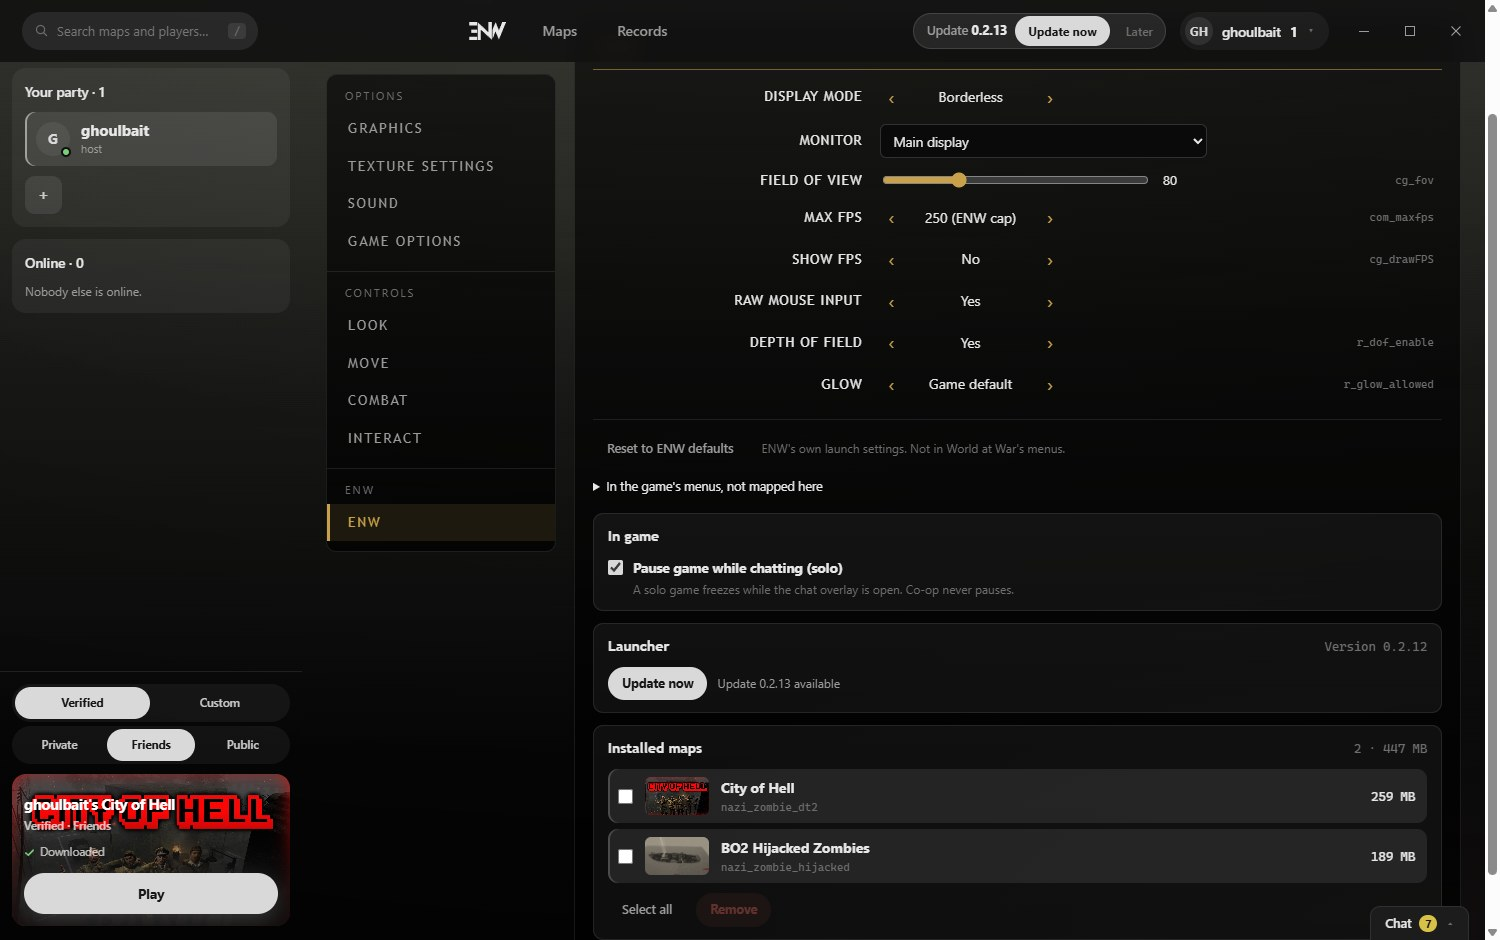
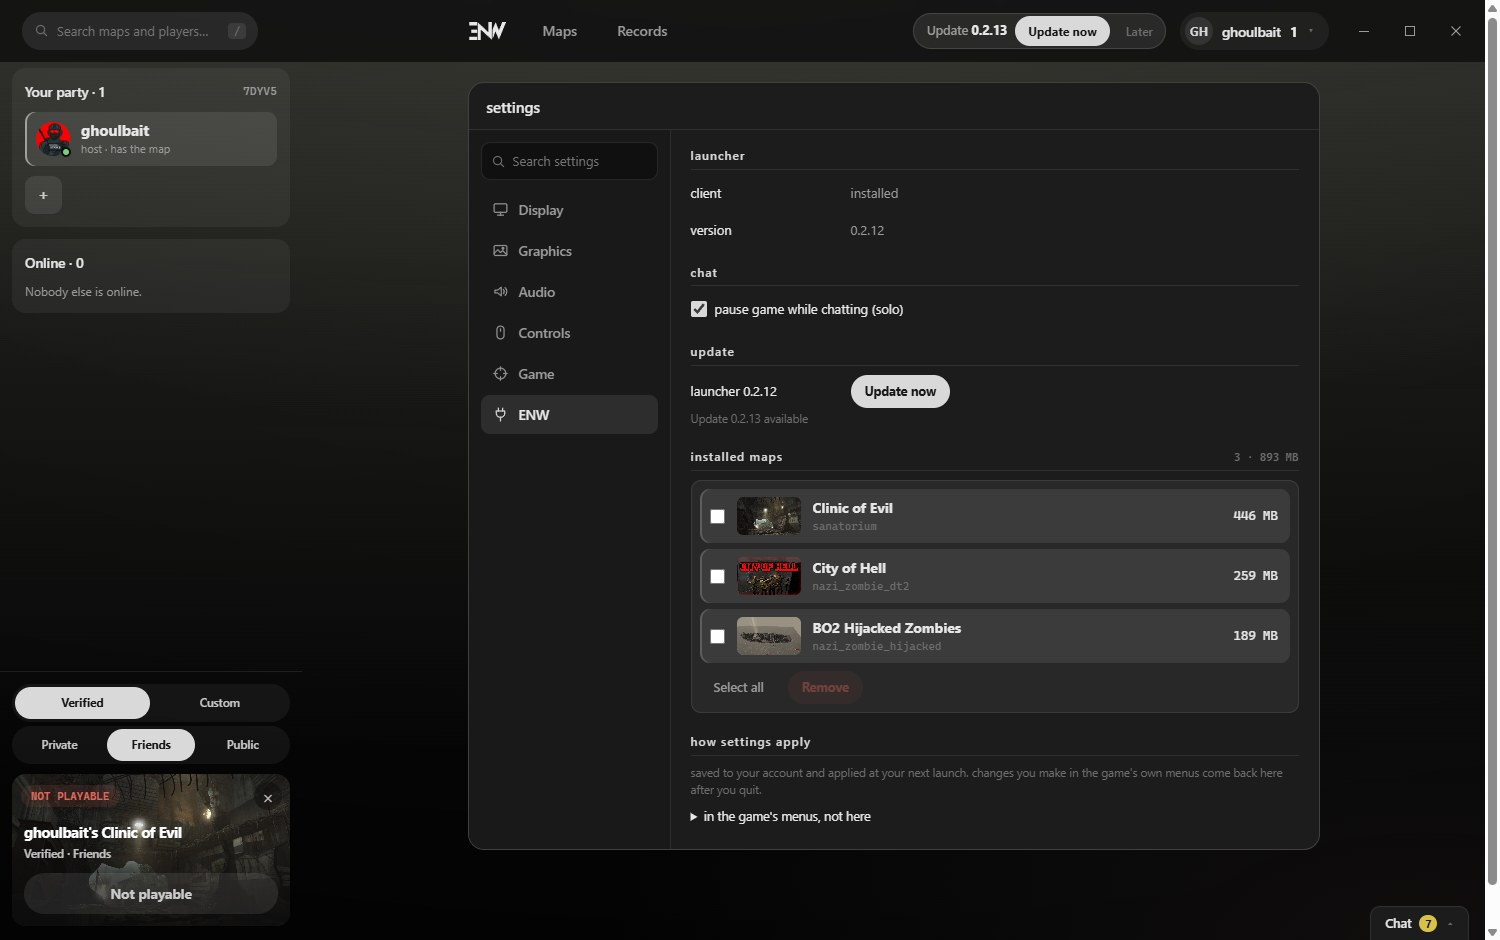
0.2.12: Download works on an older launcher (installMap without mapState); proofs re-taken on the Gaff settings layout; launcher.md, web.md, STATUS

diff --git a/web/client/src/components/launcherBridge.js b/web/client/src/components/launcherBridge.js
@@ -77,11 +77,17 @@ export function useMapInstall(key) {
   const [st, setSt] = useState(null)
   const [busy, setBusy] = useState(false)
   const enw = bridge()
-  const supported = !!(enw && enw.mapState && enw.installMap)
+  // `installMap` is enough to download (every launcher since 0.1 has it). `mapState` is
+  // 0.2.12's: without it (a 0.2.11 launcher on the new site) the button starts as Download
+  // and learns "Downloaded" from installMap's own answer ({already:true} or the record).
+  const supported = !!(enw && enw.installMap)
+  const hasState = !!(enw && enw.mapState)
   useEffect(() => {
     if (!supported || !key) { setSt(null); return undefined }
     let live = true
-    const read = () => enw.mapState(key).then((s) => { if (live) setSt(s) }).catch(() => {})
+    const read = () => (hasState
+      ? enw.mapState(key).then((s) => { if (live) setSt(s) }).catch(() => {})
+      : setSt({ bsp: key, installed: false, installing: false, pct: null }))
     read()
     const offs = []
     if (enw.onMapProgress) {
@@ -103,11 +109,12 @@ export function useMapInstall(key) {
     try {
       const r = await enw.installMap(key)
       if (r && r.skipped && !r.already) setSt((s) => ({ ...(s || {}), installing: false, error: r.skipped }))
+      else setSt((s) => ({ ...(s || {}), installing: false, installed: true, error: null }))
     } catch (e) {
       setSt((s) => ({ ...(s || {}), installing: false, error: String((e && e.message) || e).replace(/^Error invoking remote method '[^']+': (Error: )?/, '') }))
     }
     setBusy(false)
-    try { setSt(await enw.mapState(key)) } catch { /* keep what we have */ }
+    if (hasState) { try { setSt(await enw.mapState(key)) } catch { /* keep what we have */ } }
   }
 
   const phase = !supported ? 'browser'

diff --git a/docs/kickstart/launcher.md b/docs/kickstart/launcher.md
@@ -2282,3 +2282,98 @@ restart needed or done (the feed is static). No web change in this release.
 **B gets it:** leave the launcher open (or reopen it) — it checks the feed on start and the
 account menu shows **Restart to update** once it has downloaded; click it. Or quit it from the
 tray and run `ENW-Zombies-Launcher-Setup-0.2.10.exe`.
+
+
+## 2026-09-22, late evening — 0.2.12: the update chip, Download on its own, installed maps, the bar
+
+Branch `updates-downloads` (rebased on main after 0.2.11 was published from main; so this is
+**0.2.12**). B's four asks: *"detect updates, show it top right, Update now / Restart now / Update
+later"*; *"a Download button separate from Play … concise, like Movement"*; *"a list of maps you
+have installed with a picture, the name, the title, how many gigabytes … select and remove … sort
+by size, in a little box"*; *"a bar before the percentage … the size of the online-player rows"*.
+The site half is `web.md`, same date.
+
+### Updates: found by itself, downloaded when the player says
+
+- **One state machine for the UI** (`updatecheck.js`). New: `attach()` listens to electron-updater's
+  shared `autoUpdater` **without** checking; `download()` (Update now; a second press is the same
+  download — electron-updater returns its in-flight promise); `later()` (a `later: true` flag in
+  the status, held in the main process so a reload or the fallback page does not bring the chip
+  back; a new launch does). `autoDownload` is now **false**; `describe('available')` is
+  `Update 0.2.13 available` (was "…starting the download").
+- **The launch-time check** is still the silent lane (`autoupdate.js`), which now takes
+  `backgroundDownload` and main.js passes **false**: it finds the update, the chip shows it, and
+  the download waits for Update now. Apply-on-quit is unchanged, so an update the player
+  downloaded and then said Later to is installed when they quit. `main.js` attaches the chip's
+  machine **before** `state.updater.start()` so the check's `update-available` reaches it (both
+  lanes share the one `autoUpdater`); only when a feed exists, because `updateCheck()` is built
+  once per session.
+- **IPC/bridge:** `updateNow`, `updateLater`; `restartAndUpdate` now refuses while a game is
+  running (toast *Finish your game first*). Shell Settings gains an **Update now** button beside
+  Check for updates / **Restart now**.
+- **The fallback page** (`placeholder.html`, what the window shows when the site does not
+  answer) draws the same chip in its nav, so an update is reachable with the site down.
+- **Dev only:** `ENW_FAKE_UPDATE=<version>` (+ `ENW_FAKE_UPDATE_STEP_MS`) swaps electron-updater
+  for `updatecheck.fakeUpdater`, which finds, downloads in 20 steps and logs a fake restart. Guarded
+  by `!app.isPackaged`, so no installed copy can ever show a fake update. The screenshots used it.
+
+### Maps: state, the installed list, removal
+
+- `library.dirBytes(dir)` (on-disk size, links not followed) and `library.installedList()`: only
+  folders under `P.maps` (= `%LOCALAPPDATA%\ENWZombies\home\localappdata\Activision\CoDWaW\mods`)
+  that carry **our** `.enw-installed.json` and that `ownership()` calls `ours`; stock maps never;
+  largest first. The player's own WaW mods live in a different folder that nothing reads, and a
+  folder in ours without our record is `theirs` and is never listed, so never removable.
+- `main.js`: `state.installProgress` / `state.installErrors`; `runInstall` pushes a new
+  `mapState` event at start and end. New IPC `mapState(bsp)` → `{installed, installing, pct,
+  done, total, error, stock, theirs}`, `installedMaps()`, `removeMaps([bsp])` (refuses a map
+  that is still downloading and anything while a game runs; otherwise `library.uninstall`, which
+  removes only the files our record lists). Download uses the existing `installMap` →
+  `ensureMapInstalled`, so a Download and a later Play or party auto-download share one install.
+- Bridge: `mapState`, `installedMaps`, `removeMaps`, `onMapState`.
+
+### Proof
+
+- `npm test` **134 + 14 passed, 0 failed** (new: chip machine end to end on a fake updater — attach
+  does not check, Update now before a find refuses, Later, double press = one download, Restart;
+  the dev fake walks checking→available→downloading→ready; the silent lane no longer downloads by
+  itself and `FAKE_UPDATE` is packaged-guarded; `installedList` is ours-only, on-disk, largest
+  first, and uninstall leaves a player's folder alone; bridge names in preload and main; the
+  fallback page has the chip; version 0.2.12 and both suites in `npm test`).
+- **A dev launcher window** (the real `main.js`, loaded by a scratch harness that stubs protocol
+  registration and gives it its own `userData`/`ENW_ROOT`) on a private site on **:3471** holding a
+  `VACUUM INTO` copy of the live DB and one fake approved account. Driven over CDP. Screenshots,
+  `docs/kickstart/ui/2026-09-22-launcher-0.2.12-*`:
+  `update-1-available`, `update-2-downloading` (+ `2b-bar-crop`), `update-3-ready`,
+  `update-4-fallback-page` (site stopped; chip on the placeholder; its **Later** hid it and after
+  **Try again** the site's chip stayed hidden — `update-5-after-later-crop`); `map-1-download`,
+  `map-2-downloading`, `map-2b-downloading-rebased`, `map-3-downloaded`; `settings-1-installed-maps`
+  (three maps, largest first), `settings-2-selected-updating`, `settings-3-removed` (two removed;
+  the folders were gone from disk and `launcher.log` says `removed 9/12 file(s) ENW installed`);
+  `bars-1-page-card-row`, `bars-2-member-row`. Restart now reached `quitAndInstall(true,true)` on
+  the fake (logged); no real restart.
+- In a plain browser the map page's Download went to `/download?map=…&then=/m/…` and no chip drew.
+
+### Not proven, and one incident
+
+- **A real feed.** Nobody has seen 0.2.12 find 0.2.13 on `zombies.enw.gg/updates`; the chip's
+  real path is electron-updater's events, which only the fake drove here.
+- **Restart now in a packaged app** (only the fake's log line).
+- **INCIDENT (B's desktop, 21:21–21:26 local):** the first two dev windows were "off-screen" at
+  x=-2400; Windows/Chromium pulled them back onto B's primary monitor (measured at 810,257), and B
+  clicked in them (IPC log: Update now, Restart now ×2 and Try again ×2 on the fallback page,
+  Maps, `/settings#combat`). They never took focus (`showInactive`, `focus` stubbed) and
+  everything they did was the dev fake and a scratch site. Fixed for the rest of the run: shown at
+  **opacity 0, click-through, not focusable, no taskbar button**, tray icon blanked. Separately, one
+  mis-quoted relaunch started Electron's **default app window** for about a minute (PowerShell
+  `$s`/`$S` are the same variable). Both were killed by PID. Rule for the next agent: a dev
+  window is either invisible like this or not started.
+
+### Publish (coordinator)
+
+After merge, from the main checkout: `cd C:\Users\b\Desktop\Zombies\launcher; npm test; npm run pack`
+(stage-client → electron-builder → `tools/publish-update.js` into `web/public/updates`), then
+`node tools/publish-update.js --check` and `https://zombies.enw.gg/updates/latest.yml` must say
+`version: 0.2.12`. The site half needs `web/client` rebuilt and the site restarted; deploy the
+site first or together — a 0.2.11 launcher on the new site gets no chip (it lacks `updateNow`) and
+a Download that still works through `installMap`.

diff --git a/docs/kickstart/web.md b/docs/kickstart/web.md
@@ -2438,3 +2438,38 @@ codes on every row, ENW tags and the per-menu footers are gone; the dvar and sou
 * `pause_on_chat` reaching the game: the row saves it; the overlay reading it is the overlay lane's
   proof (`/api/game-chat/me`).
 * Not deployed, not merged.
+
+
+## 2026-09-22, late evening — the update chip, Download on its own, installed maps, the bar (launcher 0.2.12)
+
+Branch `updates-downloads`. The launcher half (IPC, the updater change, what "installed" means,
+the incident with the dev window) is `launcher.md`, same date. Everything here draws **only
+inside the launcher** except Download, which in a browser goes to `/download` like Play.
+
+| What | Where | Words |
+|---|---|---|
+| Update chip, top right of the nav, left of Discord | `components/UpdateChip.jsx` in `Nav.jsx` | `Update 0.2.13` [Update now] Later → `Updating ━━ 37%` → `Update 0.2.13 ready` [Restart now] Later; a broken download: `Update failed` [Retry] Later |
+| Download beside Play on the map page | `components/MapDownload.jsx` `DownloadButton` in `pages/MapPage.jsx` | Download → Downloading ━━ 37% → ✓ Downloaded (Retry download + the reason on failure) |
+| Download on the rail's server card, small | `CardDownload` in `PartyRail.jsx` (only while forming / ready check, only for a playable map) | Download → ━━ 37% → ✓ Downloaded |
+| The bar | `DlBar` (same file); `.dlbar*`, `.dlrow` in `theme.css` | a slim track **then** the % in tabular mono; a standalone progress row is 54 px, the online block's row height |
+| Party members downloading | `PlayerCard` / `roleOf` in `PartyRail.jsx` | the role line becomes the bar + % |
+| Settings → ENW → **update** and **installed maps** | `components/LauncherBoxes.jsx`, rendered in web-settings-2's slot in `components/settings/EnwSection.jsx` | `launcher 0.2.12` [Check for updates / Update now / Updating bar / Restart now] + the launcher's own line; a little box of rows (art, title, key, size), checkboxes, Select all, `Remove 2 · 447 MB`, a confirm naming the maps and the space freed |
+
+* **Data:** `launcherBridge.js` hooks `useUpdateStatus`, `useMapInstall(key)`, `useInstalledMaps()`;
+  pure helpers `components/launcherFormat.js` (`chipPhase`, `clampPct`, `fmtSize` — binary GB with
+  one decimal, MB under 1 GB, the numbers Explorer shows — `bySizeDesc`), tested in
+  `web/test/run-all.js`. Art for installed maps comes from the rail's pool, else `/api/maps/<key>`.
+* **Older launcher on this site:** no chip (0.2.11 has no `updateNow`); Download still works through
+  `installMap` and learns Downloaded from its answer. The account menu keeps *Restart to update* and
+  gains *Update now* (the way back after Later). The ENW tab's own `update` text row was removed —
+  the update section says it with the button.
+* **Merged over main:** web-cleanup's card (no picker, `Not playable`, the Back link) and
+  web-settings-2's Gaff layout; my earlier pause-on-chat box was dropped because EnwSection's
+  *chat* section already has it.
+* **Tests:** `npm test` **118 / 41 / 15 / 19, 0 failed** (three new: the chip's phases and Later;
+  sizes and sort; every bridge call the UI uses exists in `preload.cjs`, Download in a browser goes
+  through the play gate, and EnwSection renders both sections).
+* **Proof:** the launcher.md section's screenshots (`ui/2026-09-22-launcher-0.2.12-*`), on a private
+  :3471 with a DB copy; the settings shots are after the rebase onto the Gaff layout.
+* **Not proven:** phone widths; the chip against a real feed; a member's bar fed by a *second* real
+  launcher (the shot is our own row, through the site's party-progress path).

diff --git a/STATUS.md b/STATUS.md
@@ -25,6 +25,19 @@
 5. **Custom maps with friends**: today that is Minecraft Village Remastered plus the stock four on the box. The rest is the list under *Known and unfixed*.
 6. **Replay viewer**: any finished game's page → replay. Nacht renders with full world geometry.
 
+## 2026-09-22 (late evening): launcher 0.2.12 — update chip, Download, installed maps (branch `updates-downloads`, not merged, not published)
+
+* **Update chip, top right**: `Update 0.2.13` · Update now · Later → a bar → Restart now · Later. The
+  check runs every launch; the download waits for Update now; Later hides it until next launch.
+  The launcher's "site is not answering" page has the same chip.
+* **Download** beside Play on the map page and small on the rail's card: Download → bar + % →
+  Downloaded. In a browser it goes to /download.
+* **Settings → ENW**: an Update button and an *installed maps* box (picture, title, key, size,
+  largest first, select and Remove). Only maps ENW installed are listed.
+* **Download bars** everywhere a download shows, bar before the %, rail-row height.
+* **Proven** in a dev launcher window on a DB copy (screenshots `docs/kickstart/ui/2026-09-22-launcher-0.2.12-*`),
+  tests green. **Not proven**: a real feed, a real restart. Write-ups: `launcher.md` and `web.md`, newest sections.
+
 ## 2026-09-22 (late): the rail cleaned up (branch `web-cleanup`, not merged)
 
 * **The card opens the map page.** It works like Movement's, and the page has a Back that goes
